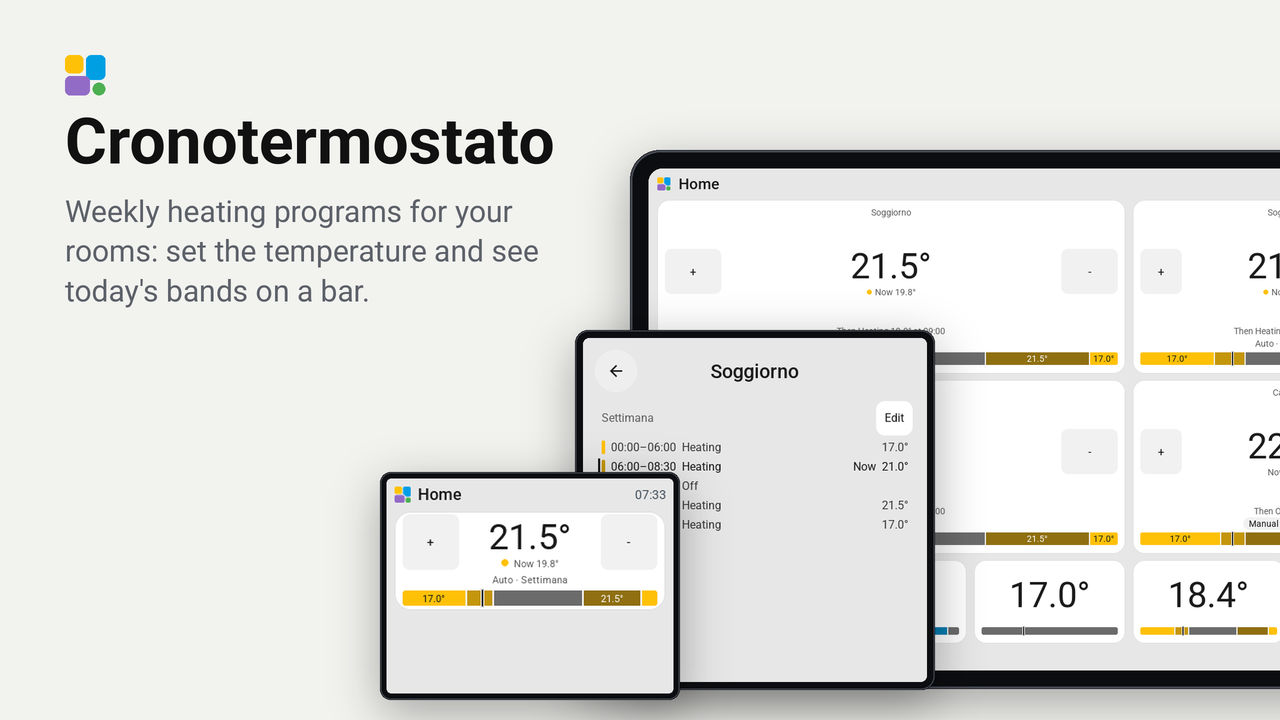
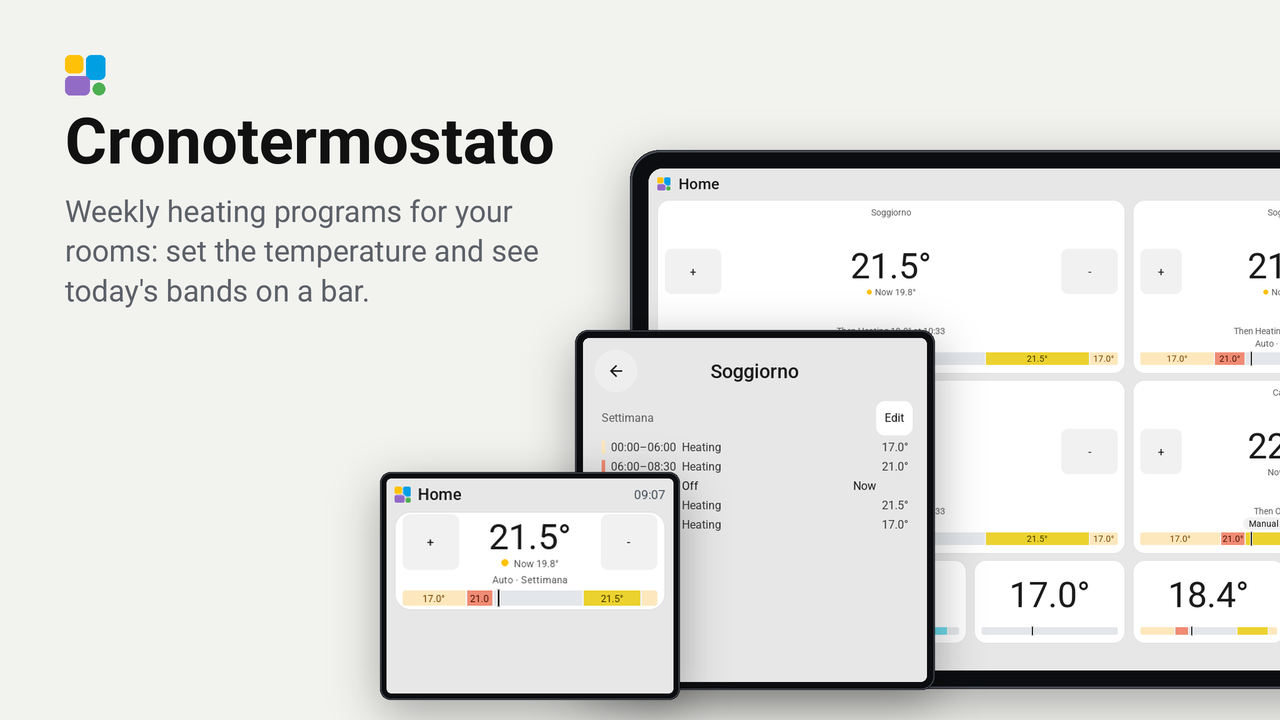
Colori netti per valore: palette dell'editor (4 tinte di tonalita diversa per modo), versione 0.2.3
Barra e quadratino dell'elenco usano riempimento e testo della palette di bandTints
(commit 4e529dc dell'integrazione), colonna chiara o scura secondo il tema.
Test: parita con styles.js (tests/palette.inc), contrasto 4.5 e CIEDE2000 >= 15 fra
tinte dello stesso modo; store.png rigenerato.

Claude-Session: https://claude.ai/code/session_01GtkLT9iTqHcwcS4MT5PgeS

diff --git a/tests/test_logic.cpp b/tests/test_logic.cpp
@@ -2038,31 +2038,48 @@ TEST(row_value_ladder) {
   CHECK(!v.cut && v.text.empty());
 }
 
-// The colours of the look, copied from the firmware's theme table (components/smart_display/theme.h, light and dark): the
-// colour of each mode as the tile takes it (Home Assistant's amber, the look's accent, the grey role SUBTLE), ink and the card.
-struct Look {
-  const char *name;
-  uint32_t heat, cool, off, ink, card;
-};
-static const Look LOOKS[2] = {{"light", 0xFFC107, 0x009FE3, 0x6B6B6B, 0x1B1B1B, 0xFFFFFF},
-                              {"dark", 0xFFC107, 0x0A93D2, 0x8A8A8A, 0xDADADA, 0x1A1A1A}};
-// lv_color_mix(first, second, amount) as LVGL 9 does it
-static uint32_t mix_rgb(uint32_t first, uint32_t second, uint8_t amount) {
-  uint32_t out = 0;
-  for (int shift = 16; shift >= 0; shift -= 8) {
-    const uint32_t a = first >> shift & 0xFF, b = second >> shift & 0xFF;
-    out |= (((a * amount + b * (255 - amount)) * 0x8081U) >> 23) << shift;
+// CIEDE2000 between two colours 0xRRGGBB (D65), as the editor's test (tests/frontend/contrast.test.mjs) measures the tints apart.
+static void to_lab(uint32_t rgb, double &L, double &a, double &b) {
+  double c[3];
+  for (int i = 0; i < 3; ++i) {
+    const double v = (double) ((rgb >> (16 - 8 * i)) & 0xFF) / 255.0;
+    c[i] = v <= 0.04045 ? v / 12.92 : std::pow((v + 0.055) / 1.055, 2.4);
   }
-  return out;
+  const double x = (0.4124564 * c[0] + 0.3575761 * c[1] + 0.1804375 * c[2]) / 0.95047;
+  const double y = 0.2126729 * c[0] + 0.7151522 * c[1] + 0.0721750 * c[2];
+  const double z = (0.0193339 * c[0] + 0.1191920 * c[1] + 0.9503041 * c[2]) / 1.08883;
+  auto f = [](double t) { return t > 216.0 / 24389.0 ? std::cbrt(t) : (24389.0 / 27.0 * t + 16.0) / 116.0; };
+  L = 116.0 * f(y) - 16.0;
+  a = 500.0 * (f(x) - f(y));
+  b = 200.0 * (f(y) - f(z));
 }
-static uint32_t tint_fill(uint32_t base, uint32_t ink, int tint) {
-  const uint8_t share = tint_share(tint);
-  return share ? mix_rgb(ink, base, share) : base;
-}
-static int channel_distance(uint32_t a, uint32_t b) {
-  int d = 0;
-  for (int shift = 16; shift >= 0; shift -= 8) d += std::abs((int) (a >> shift & 0xFF) - (int) (b >> shift & 0xFF));
-  return d;
+static double delta_e2000(uint32_t c1, uint32_t c2) {
+  const double pi = 3.14159265358979323846, rad = pi / 180.0;
+  double L1, a1, b1, L2, a2, b2;
+  to_lab(c1, L1, a1, b1);
+  to_lab(c2, L2, a2, b2);
+  const double Cb = (std::hypot(a1, b1) + std::hypot(a2, b2)) / 2.0;
+  const double G = 0.5 * (1.0 - std::sqrt(std::pow(Cb, 7) / (std::pow(Cb, 7) + std::pow(25.0, 7))));
+  const double a1p = (1 + G) * a1, a2p = (1 + G) * a2;
+  const double C1 = std::hypot(a1p, b1), C2 = std::hypot(a2p, b2);
+  auto hue = [&](double b, double a) { const double h = std::atan2(b, a) / rad; return (a == 0 && b == 0) ? 0.0 : (h < 0 ? h + 360 : h); };
+  const double h1 = hue(b1, a1p), h2 = hue(b2, a2p);
+  double dh = 0;
+  if (C1 * C2 != 0) {
+    dh = h2 - h1;
+    if (dh > 180) dh -= 360;
+    else if (dh < -180) dh += 360;
+  }
+  const double dL = L2 - L1, dC = C2 - C1, dH = 2 * std::sqrt(C1 * C2) * std::sin(dh * rad / 2);
+  const double Lb = (L1 + L2) / 2, Cbp = (C1 + C2) / 2;
+  double hb = h1 + h2;
+  if (C1 * C2 != 0) hb = std::fabs(h1 - h2) <= 180 ? (h1 + h2) / 2 : (h1 + h2 < 360 ? (h1 + h2 + 360) / 2 : (h1 + h2 - 360) / 2);
+  const double T = 1 - 0.17 * std::cos((hb - 30) * rad) + 0.24 * std::cos(2 * hb * rad) + 0.32 * std::cos((3 * hb + 6) * rad) - 0.20 * std::cos((4 * hb - 63) * rad);
+  const double dth = 30 * std::exp(-std::pow((hb - 275) / 25, 2));
+  const double Rc = 2 * std::sqrt(std::pow(Cbp, 7) / (std::pow(Cbp, 7) + std::pow(25.0, 7)));
+  const double Sl = 1 + 0.015 * std::pow(Lb - 50, 2) / std::sqrt(20 + std::pow(Lb - 50, 2)), Sc = 1 + 0.045 * Cbp, Sh = 1 + 0.015 * Cbp * T;
+  const double Rt = -std::sin(2 * dth * rad) * Rc;
+  return std::sqrt(std::pow(dL / Sl, 2) + std::pow(dC / Sc, 2) + std::pow(dH / Sh, 2) + Rt * (dC / Sc) * (dH / Sh));
 }
 
 TEST(contrast_helpers) {
@@ -2077,46 +2094,72 @@ TEST(contrast_helpers) {
         std::fabs(relative_luminance(0x0000FF) - 0.0722) < 1e-6);
   CHECK(std::fabs(contrast_ratio(0xFFC107, 0x1B1B1B) - 10.5668) < 1e-3);
   CHECK(std::fabs(contrast_ratio(0x009FE3, 0xFFFFFF) - 2.9709) < 1e-3);
-  CHECK(first_reads_better(0xFFC107, 0x1B1B1B, 0xFFFFFF));
-  CHECK(!first_reads_better(0x101010, 0x1B1B1B, 0xFFFFFF));
-  CHECK(first_reads_better(0x808080, 0x808080, 0x808080));   // a tie goes to the first
 }
 
-TEST(tint_shares_grow_and_are_clamped) {
-  CHECK(tint_share(0) == 0);
-  for (int i = 1; i < TINT_COUNT; ++i) CHECK(tint_share(i) > tint_share(i - 1));
-  CHECK(tint_share(-1) == tint_share(0));
-  CHECK(tint_share(TINT_COUNT + 7) == tint_share(TINT_COUNT - 1));
+TEST(palette_matches_the_editor) {
+  // tests/palette.inc comes from the editor's styles.js (tools/gen_parity.mjs): {look, mode, tint, fill, text}
+  struct Row { int look, mode, tint; uint32_t fill, text; };
+  static const Row rows[] = {
+#include "palette.inc"
+  };
+  CHECK(sizeof(rows) / sizeof(rows[0]) == 24);
+  const Mode modes[3] = {Mode::HEAT, Mode::COOL, Mode::OFF};
+  for (const Row &r : rows) {
+    const BandColors c = band_colors(modes[r.mode], r.tint, r.look == 1);
+    if (c.fill != r.fill || c.text != r.text) std::printf("  look %d mode %d tint %d: %06X/%06X, the editor has %06X/%06X\n", r.look, r.mode, r.tint, (unsigned) c.fill, (unsigned) c.text, (unsigned) r.fill, (unsigned) r.text);
+    CHECK(c.fill == r.fill && c.text == r.text);
+  }
 }
 
-TEST(tints_are_readable_and_apart_in_both_looks) {
-  for (const Look &look : LOOKS) {
-    for (uint32_t base : {look.heat, look.cool, look.off}) {
-      uint32_t fills[TINT_COUNT];
+TEST(band_colors_clamp_the_tint_and_the_mode) {
+  CHECK(band_colors(Mode::HEAT, -1, false).fill == band_colors(Mode::HEAT, 0, false).fill);
+  CHECK(band_colors(Mode::COOL, TINT_COUNT + 7, true).fill == band_colors(Mode::COOL, TINT_COUNT - 1, true).fill);
+  CHECK(band_colors(mode_from_code(7), 2, false).fill == band_colors(Mode::OFF, 2, false).fill);
+}
+
+TEST(band_text_is_readable_in_both_looks) {
+  // 4.5 to 1 of the text on its own fill, every tint of every mode, light and dark
+  for (int dark = 0; dark < 2; ++dark)
+    for (Mode m : {Mode::HEAT, Mode::COOL, Mode::OFF})
       for (int t = 0; t < TINT_COUNT; ++t) {
-        fills[t] = tint_fill(base, look.ink, t);
-        // the text on a fill is ink or the card's ground, whichever reads better: 4.5 to 1 on every tint
-        const double best = std::max(contrast_ratio(fills[t], look.ink), contrast_ratio(fills[t], look.card));
-        if (best < 4.5) std::printf("  %s %06X tint %d: %.2f\n", look.name, (unsigned) base, t, best);
-        CHECK(best >= 4.5);
+        const BandColors c = band_colors(m, t, dark == 1);
+        const double ratio = contrast_ratio(c.fill, c.text);
+        if (ratio < 4.5) std::printf("  dark %d mode %d tint %d: %.2f\n", dark, (int) m, t, ratio);
+        CHECK(ratio >= 4.5);
       }
-      CHECK(fills[0] == base);                                   // tint 0 is the plain colour of the mode
-      for (int a = 0; a < TINT_COUNT; ++a)
-        for (int b = a + 1; b < TINT_COUNT; ++b) CHECK(channel_distance(fills[a], fills[b]) >= 40);   // the tints can be told apart
-    }
-  }
 }
 
-TEST(tinted_fill_is_a_shade_of_its_mode) {
-  // a tint moves the colour towards ink and never away from its hue: in the light look it only gets darker, in the dark look lighter
-  const Look &light = LOOKS[0], &dark = LOOKS[1];
-  for (int t = 1; t < TINT_COUNT; ++t) {
-    CHECK(relative_luminance(tint_fill(light.heat, light.ink, t)) < relative_luminance(tint_fill(light.heat, light.ink, t - 1)));
-    CHECK(relative_luminance(tint_fill(dark.heat, dark.ink, t)) > relative_luminance(tint_fill(dark.heat, dark.ink, t - 1)));
-  }
-  // heat stays warmer than cool, cool bluer: the red channel of heat stays above its blue one on every tint of the light look
-  for (int t = 0; t < TINT_COUNT; ++t) {
-    const uint32_t h = tint_fill(light.heat, light.ink, t), c = tint_fill(light.cool, light.ink, t);
+TEST(tints_of_one_mode_differ_in_both_looks) {
+  for (int dark = 0; dark < 2; ++dark)
+    for (Mode m : {Mode::HEAT, Mode::COOL, Mode::OFF})
+      for (int a = 0; a < TINT_COUNT; ++a)
+        for (int b = a + 1; b < TINT_COUNT; ++b) {
+          const double d = delta_e2000(band_colors(m, a, dark == 1).fill, band_colors(m, b, dark == 1).fill);
+          if (d < 15) std::printf("  dark %d mode %d tints %d/%d: %.1f\n", dark, (int) m, a, b, d);
+          CHECK(d >= 15);   // the editor's own bar (CIEDE2000 >= 15 between any two fills of a mode)
+        }
+}
+
+TEST(no_tint_of_a_mode_is_taken_for_another_mode) {
+  // Heat stands apart from cool and off (>= 15). Cool and off are both quiet colours: the palette of the editor keeps the pale blue and
+  // the pale grey of tint 0 only 7.8 apart in the light look (13.6 in the dark one), so cool against off has 7 (the word tells the rest).
+  for (int dark = 0; dark < 2; ++dark)
+    for (int a = 0; a < TINT_COUNT; ++a)
+      for (int b = 0; b < TINT_COUNT; ++b) {
+        const uint32_t heat = band_colors(Mode::HEAT, a, dark == 1).fill, cool = band_colors(Mode::COOL, b, dark == 1).fill, off = band_colors(Mode::OFF, b, dark == 1).fill;
+        CHECK(delta_e2000(heat, cool) >= 15);
+        CHECK(delta_e2000(heat, off) >= 15);
+        CHECK(delta_e2000(band_colors(Mode::COOL, a, dark == 1).fill, off) >= 7.0);
+      }
+  // a band without a value (off has none) is always tint 0: against the cool tints a value can give, the grey is >= 7.5 apart
+  for (int dark = 0; dark < 2; ++dark)
+    for (int t = 0; t < TINT_COUNT; ++t) CHECK(delta_e2000(band_colors(Mode::OFF, 0, dark == 1).fill, band_colors(Mode::COOL, t, dark == 1).fill) >= 7.5);
+}
+
+TEST(heat_and_cool_hues_stay_in_their_family) {
+  // tint 0 of heat is warm (red above blue) and of cool is cool (blue above red), in both looks
+  for (int dark = 0; dark < 2; ++dark) {
+    const uint32_t h = band_colors(Mode::HEAT, 0, dark == 1).fill, c = band_colors(Mode::COOL, 0, dark == 1).fill;
     CHECK((h >> 16 & 0xFF) > (h & 0xFF));
     CHECK((c & 0xFF) > (c >> 16 & 0xFF));
   }

diff --git a/components/cronotermostato/cronotermostato_logic.h b/components/cronotermostato/cronotermostato_logic.h
@@ -348,11 +348,29 @@ inline RowValue row_value(const std::string &temp, const std::string &preset, in
   return v;
 }
 
-// The tint: a share (of 255) of the ink colour mixed into the colour of the mode, so a tint is a lighter or darker shade
-// of the same colour in both looks (ink is dark in the light look and light in the dark one). tests/test_logic.cpp
-// checks that the text of ink or of the card, whichever reads better, has at least 4.5:1 on every tint of every mode in both looks.
-constexpr uint8_t TINT_SHARE[TINT_COUNT] = {0, 65, 125, 175};
-inline uint8_t tint_share(int tint) { return TINT_SHARE[std::min(std::max(tint, 0), TINT_COUNT - 1)]; }
+// The colours of a band: fill and text, by mode, tint (0..TINT_COUNT-1) and look. The same palette as the editor in Home Assistant
+// (integration repository, custom_components/cronotermostato/frontend/lib/day-editing.js, docstring of bandTints; the values are
+// styles.js, --crono-<mode>-v<n>-bg and --crono-<mode>-v<n>): four tints of different HUE for each mode, so values of the same
+// mode can be told apart at a glance (heat: amber, brick red, gold, olive; cool: pale blue, cyan, violet, azure; off: four greys).
+// Tint 0 is the plain colour of the mode, now taken from the palette too (the look's amber and blue of Tone::BUSY / ACCENT were too
+// near gold and azure). Plain constants, in sRGB: no word. tools/gen_parity.mjs writes tests/palette.inc from styles.js, so the
+// tests say when the editor changes a colour. Index [look][mode][tint]: look 0 light, 1 dark; mode 0 heat, 1 cool, 2 off.
+// A colour as 0xRRGGBB from its channels (the palette is written in decimal channels: tools/check.py keeps hex colours out of the tile's code).
+constexpr uint32_t rgb(unsigned r, unsigned g, unsigned b) { return (r << 16) | (g << 8) | b; }
+struct BandColors {
+  uint32_t fill, text;
+};
+constexpr BandColors BAND_PALETTE[2][3][TINT_COUNT] = {
+    {{{rgb(253, 232, 189), rgb(122, 67, 0)}, {rgb(240, 139, 116), rgb(79, 18, 4)}, {rgb(236, 210, 46), rgb(64, 54, 0)}, {rgb(163, 191, 85), rgb(31, 44, 2)}},
+     {{rgb(216, 230, 253), rgb(27, 74, 158)}, {rgb(111, 217, 234), rgb(3, 59, 69)}, {rgb(195, 163, 240), rgb(46, 16, 112)}, {rgb(111, 169, 240), rgb(6, 35, 79)}},
+     {{rgb(227, 230, 234), rgb(70, 78, 91)}, {rgb(164, 170, 182), rgb(20, 24, 29)}, {rgb(116, 124, 139), rgb(5, 7, 10)}, {rgb(56, 64, 76), rgb(255, 255, 255)}}},
+    {{{rgb(74, 52, 16), rgb(252, 211, 138)}, {rgb(127, 46, 26), rgb(255, 217, 205)}, {rgb(122, 106, 0), rgb(255, 246, 176)}, {rgb(60, 92, 28), rgb(223, 240, 181)}},
+     {{rgb(20, 48, 94), rgb(179, 205, 255)}, {rgb(10, 92, 112), rgb(192, 243, 252)}, {rgb(107, 79, 214), rgb(255, 255, 255)}, {rgb(42, 111, 192), rgb(255, 255, 255)}},
+     {{rgb(43, 48, 56), rgb(196, 203, 213)}, {rgb(87, 94, 107), rgb(255, 255, 255)}, {rgb(127, 137, 153), rgb(5, 7, 10)}, {rgb(180, 189, 201), rgb(11, 14, 18)}}}};
+inline BandColors band_colors(Mode mode, int tint, bool dark) {
+  const int m = mode == Mode::HEAT ? 0 : mode == Mode::COOL ? 1 : 2;
+  return BAND_PALETTE[dark ? 1 : 0][m][std::min(std::max(tint, 0), TINT_COUNT - 1)];
+}
 
 // WCAG relative luminance and contrast ratio of colours given as 0xRRGGBB.
 inline double relative_luminance(uint32_t rgb) {
@@ -368,8 +386,6 @@ inline double contrast_ratio(uint32_t a, uint32_t b) {
   const double la = relative_luminance(a), lb = relative_luminance(b);
   return (std::max(la, lb) + 0.05) / (std::min(la, lb) + 0.05);
 }
-// Of two neutral colours for the text on `fill`, the one that reads better: true for `first`.
-inline bool first_reads_better(uint32_t fill, uint32_t first, uint32_t second) { return contrast_ratio(fill, first) >= contrast_ratio(fill, second); }
 
 // ---------------------------------------------------------------------------------------------------------------
 // Hostile numbers, the dot of the thermostat

diff --git a/components/cronotermostato/cronotermostato.cpp b/components/cronotermostato/cronotermostato.cpp
@@ -83,33 +83,14 @@ static char decimal_of(const tessera::Plugin *plugin) {
   return *separator ? *separator : '.';
 }
 
-static Tone tone_for(Mode mode) {
-  switch (tone_of(mode)) {
-    case BarTone::AMBER: return Tone::BUSY;
-    case BarTone::BLUE: return Tone::ACCENT;
-    default: return Tone::NORMAL;
-  }
-}
-
-// The colour of a band: the colour of its mode (heat is Home Assistant's amber, cool the look's blue, off the grey role
-// SUBTLE), with a share of the ink mixed in for the second, third and fourth value of the same mode in the day (a tint is a
-// shade of the mode's colour in both looks). The text on it is neutral: see text_on().
-static lv_color_t band_fill(Mode mode, int tint) {
-  const lv_color_t base = ui::tone_color(tone_for(mode), theme::SUBTLE);
-  const uint8_t share = tint_share(tint);
-  return share ? lv_color_mix(ui::color(theme::INK), base, share) : base;
-}
-static uint32_t rgb_of(lv_color_t c) { return lv_color_to_u32(c) & ((1u << 24) - 1); }
-// A block in the colour of a band; returns that colour (to choose the text on it).
-static lv_color_t paint_band(lv_obj_t *block, Mode mode, int tint) {
-  const lv_color_t c = band_fill(mode, tint);
-  lv_obj_set_style_bg_color(block, c, 0);
+// The colours of a band: fill and text from the palette of the editor in Home Assistant (cronotermostato_logic.h, BAND_PALETTE),
+// by mode, tint and look. Four tints of different hue for each mode, tint 0 the plain colour of the mode. Constants, no theme role.
+static lv_color_t color_of(uint32_t rgb) { return lv_color_make((uint8_t) (rgb >> 16 & 0xFF), (uint8_t) (rgb >> 8 & 0xFF), (uint8_t) (rgb & 0xFF)); }
+// A block in the colour of a band; returns the colours (the text goes on the fill).
+static BandColors paint_band(lv_obj_t *block, Mode mode, int tint) {
+  const BandColors c = band_colors(mode, tint, theme::dark);
+  lv_obj_set_style_bg_color(block, color_of(c.fill), 0);
   return c;
-}
-// Of the two neutral roles, ink and the card's ground, the one that reads better on this fill (the roles swap their light
-// and dark values, so one of them is always dark and the other light).
-static theme::Role text_on(lv_color_t fill) {
-  return first_reads_better(rgb_of(fill), rgb_of(ui::color(theme::INK)), rgb_of(ui::color(theme::CARD))) ? theme::INK : theme::CARD;
 }
 
 static const char *mode_word(const tessera::Plugin *plugin, Mode mode, bool shortly) {
@@ -585,7 +566,7 @@ class RoomTile : public tessera::Tile {
       show(seg_[i], true);
       lv_obj_set_pos(seg_[i], spans[i].x0, 0);
       lv_obj_set_size(seg_[i], std::max(1, spans[i].x1 - spans[i].x0), bar_h_);
-      const lv_color_t fill = paint_band(seg_[i], s.mode, s.tint);
+      const BandColors fill = paint_band(seg_[i], s.mode, s.tint);
       spans_x0_[i] = spans[i].x0;
       if (labels_) paint_label(i, s, std::max(1, spans[i].x1 - spans[i].x0), fill);
     }
@@ -596,7 +577,7 @@ class RoomTile : public tessera::Tile {
 
   // The value on a segment, by the width it has (label_level: nothing, a sigla, the value): the temperature, or the preset
   // when the band has none. Whole if it fits, else cut with dots (two letters at least), else the sigla, else nothing.
-  void paint_label(int i, const Segment &s, int width, lv_color_t fill) {
+  void paint_label(int i, const Segment &s, int width, const BandColors &colors) {
     lv_obj_t *l = seg_label_[i];
     if (!l) return;
     const bool value = s.mode != Mode::OFF && (s.has_temp || !s.preset.empty());
@@ -626,7 +607,7 @@ class RoomTile : public tessera::Tile {
     lv_obj_set_width(l, label_w_[i] + ui::px(2));
     lv_obj_set_y(l, std::max(0, (bar_h_ - ui::line_height(Font::BODY)) / 2));
     ui::set_text(l, text);
-    ui::set_color(l, text_on(fill));
+    lv_obj_set_style_text_color(l, color_of(colors.text), 0);
     place_label(i, spans_x0_[i]);
   }
 

diff --git a/README.md b/README.md
@@ -41,20 +41,20 @@ the list of today's bands.
   while it cools.
 - A line that says the state of the program: "Auto" and the program's name, "Manual until 18:00 x", "Paused",
   "No program", "Problem" or "Unavailable". A line "Then Heating 21.5 at 17:00" shows when there is room for it.
-- A bar with today's bands, from 00:00 to 24:00: amber for heating, blue for cooling, grey for off, and a dark tick for
+- A bar with today's bands, from 00:00 to 24:00: warm colours for heating, cool ones for cooling, grey for off, and a dark tick for
   now. Bands of the same mode that differ in value are told apart, as in the editor in Home Assistant:
   - **Not merged.** Neighbouring bands with another temperature or another preset stay two bands (the same preset, one).
-  - **A shade per value.** The value is the temperature, or the preset when the band has no temperature. In a day, the same
-    mode and value always have the same shade: the first one is the plain colour, the next ones (up to 4 shades, then it
-    starts again) are darker in the light look and lighter in the dark one. The text is never coloured: ink or the card's
-    ground, whichever reads better (at least 4.5 to 1 on every shade, in both looks).
+  - **A tint per value.** The value is the temperature, or the preset when the band has no temperature. In a day, the same
+    mode and value always have the same tint (up to 4, then it starts again). The tints are the palette of the editor, with
+    different hues: heat amber, brick red, gold, olive; cool pale blue, cyan, violet, azure; off four greys. Each tint has
+    its own text colour (at least 4.5 to 1 on its fill, in both looks); the look of the screen picks the light or dark column.
   - **A joint of 2 px** between neighbours (the track shows through); a band keeps at least 1 px.
   - **The value on the band** (from 2 cells up, never in a 1x1 tile, which has colours and joints only): the temperature, or
     the preset, cut with dots when long; a narrow band shows two letters of the preset or the temperature without its
     degree sign; under about 12 px nothing. The bar is one line of text high when the tile keeps its look with that, else
     thin and without labels. The label steps aside, or goes, when the "now" tick would stand on it.
   - Example, the program "Casa" on a Tuesday: heat with the preset away 00:00-15:00, home 15:00-22:30, away 22:30-24:00, no
-    temperature: three bands, away and home in two shades, the two aways in the same one (`preview.yaml`, tile "Casa").
+    temperature: three bands, away and home in two clearly different colours (amber and brick red), the two aways in the same one (`preview.yaml`, tile "Casa").
   - Needs no new attribute: the presets come in `today_preset`, already one of the 16 of the manifest.
 
 ## Sizes
@@ -190,9 +190,9 @@ tests/run.sh
 `tests/parity.inc` holds bar positions computed by the editor's own `stripSegments` (integration repository,
 `tests/frontend/cases.json`); the bar must match them within a pixel. `tests/overlap.inc` holds a day with overlapping
 bands: the editor draws them over each other, the tile trims the later one (a deliberate difference). `tests/tints.inc`,
-`labels.inc` and `siglas.inc` hold what the editor's `bandTints`, `segmentDetail` and `presetSigla` say (the tile matches
+`labels.inc`, `siglas.inc` and `palette.inc` (the colours of the editor's `styles.js`) hold what the editor's `bandTints`, `segmentDetail` and `presetSigla` say (the tile matches
 them; one known difference: it does not change the case of letters outside ASCII). Regenerate all with
-`node tools/gen_parity.mjs [path of the integration repository]` (default `../cronotermostato`, at commit 7c9113d or later).
+`node tools/gen_parity.mjs [path of the integration repository]` (default `../cronotermostato`, at commit 4e529dc or later).
 
 The touch flow of the bench (`tools/bench_flow.py`) opens the card of the first room tile with real taps, enters the
 editing, adds a band, saves, answers the way the integration does (new bands, a refusal, a change made elsewhere), deletes

diff --git a/CHANGELOG.md b/CHANGELOG.md
@@ -1,5 +1,23 @@
 # Changelog
 
+## 0.2.3
+- **Sharp colours per value.** The shades of 0.2.2 (a share of ink mixed into the colour of the mode) were too faint on the
+  panel, as they were in the editor. The tile now takes the **palette of the editor in Home Assistant** (integration commit
+  4e529dc, `bandTints`): for each mode 4 tints of different hue, not only of different lightness.
+  - Heat: amber, brick red, gold, olive. Cool: pale blue, cyan, violet, azure. Off: four greys.
+  - Used for the fill of the bar and for the chip of the rows of the card (reading and editing lists).
+  - The text on a band is the text colour of the palette for that tint, no longer "ink or the card's ground": at least 4.5 to 1
+    on every fill, in both looks (tested).
+  - Tint 0, the plain colour of the mode, now comes from the palette too (before: Tessera's amber and blue). The old amber
+    and blue were too near gold and azure (CIEDE2000 13 from the azure, 17 from the gold); the palette's first tints are paler
+    in the light look and deeper in the dark one, as in the editor.
+  - The look (light or dark) of the screen picks the column of colours. Plain colour constants in the code: no word, no translation.
+- Tests: the palette is checked against the editor's `styles.js` (`tools/gen_parity.mjs` makes `tests/palette.inc`), text
+  4.5 to 1 and tints of one mode at least 15 apart (CIEDE2000) in both looks, heat at least 15 from cool and off. Cool against off
+  has less room: the editor's pale blue and pale grey of tint 0 are 7.8 apart in the light look, so the test asks 7 (an off band
+  also says "Off" in the list).
+- Works with integration 0.3.2 or later; the tile reads the same data.
+
 ## 0.2.2
 - **Bands that differ in value are told apart.** Until now two neighbouring heating bands with another preset or another
   temperature looked the same on the bar (the colour only followed the mode). Now, like the bar of the editor in Home

diff --git a/docs/PROVA_SU_SCHERMO.md b/docs/PROVA_SU_SCHERMO.md
@@ -173,11 +173,11 @@ o perde il Wi-Fi aprendo la modifica, annotalo (e il giorno con più fasce).
   `cronotermostato.set_day` dai permessi del dispositivo.
 - Per tornare al plugin 0.1.x: ricostruisci con la cartella di prova del commit precedente (la card torna in sola lettura).
 
-### Colori e valori sulla barra (plugin 0.2.2)
+### Colori e valori sulla barra (plugin 0.2.2, colori netti dalla 0.2.3)
 
 Con un programma che ha fasce dello stesso modo e valori diversi (per esempio il programma "Casa" di martedì: riscaldamento
 con preset away 00:00-15:00, home 15:00-22:30, away 22:30-24:00), controlla sul vero schermo, in chiaro e in scuro:
-1. le fasce con preset o temperatura diversi hanno tinte diverse, e quelle con lo stesso valore la stessa tinta;
+1. le fasce con preset o temperatura diversi hanno colori nettamente diversi (riscaldamento: ambra, mattone, oro, oliva; raffrescamento: azzurro, ciano, viola, blu; spento: quattro grigi), e quelle con lo stesso valore lo stesso colore; away e home del programma "Casa" si distinguono a colpo d'occhio, in chiaro e in scuro;
 2. fra una fascia e la successiva c'è un filo di separazione ben visibile;
 3. nei tile da 2x2 in su la barra riporta temperatura o preset sulle fasce abbastanza larghe, e il testo si legge su ogni tinta;
 4. il tile 1x1 mostra solo colori e separatori;
